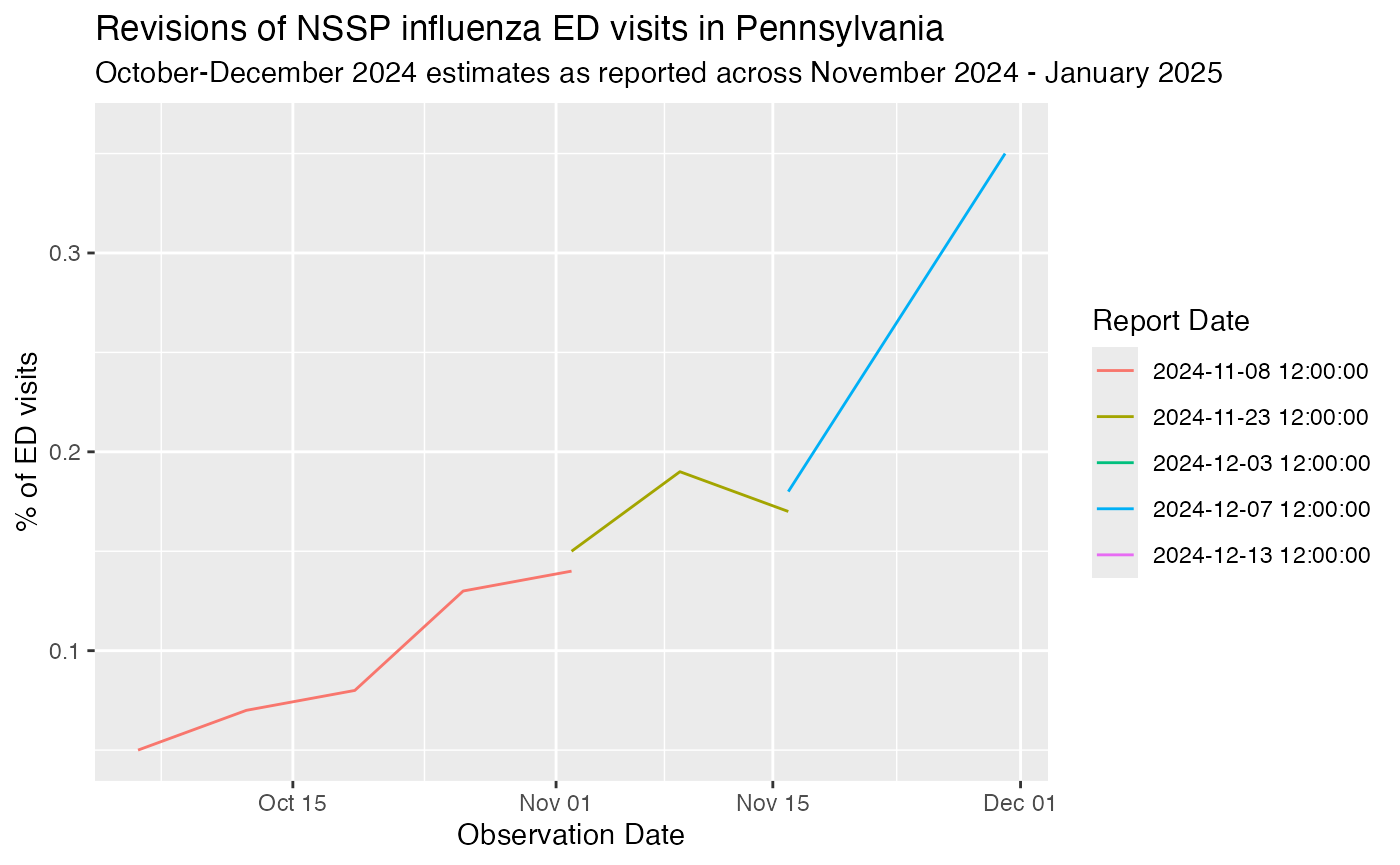
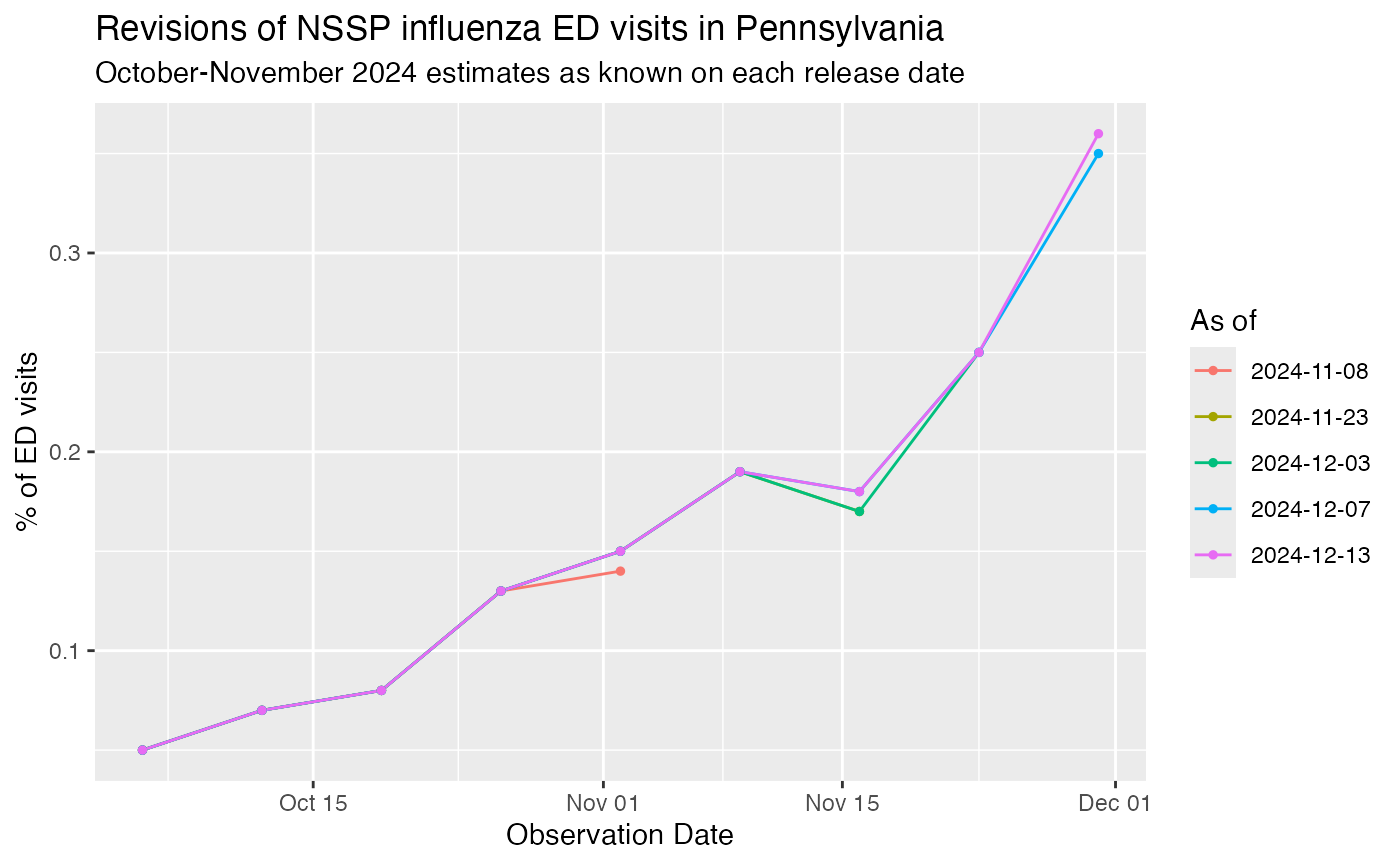
Fix vignette issues found in review
- Knit each vignette in a fresh R session (callr), so packages and options
  no longer leak between them. The migration guide's lag chunk had relied
  on dplyr attached by another vignette, and its head() output was cut to
  4 rows by the epidatr vignette's tibble options. Add library(dplyr) to
  the migration guide; add callr to Config/Needs/precompile.
- Revision-history plot: the archive lists only changed values, so each
  line was a fragment. Rebuild the series as known on each release date;
  fix the subtitle (October-November) and the alt text.
- versioned-data: describe the one revision actually shown, and use a
  7-day lag example so the filter visibly drops a row.
- migration guide: lag 6 is an example, not "the first report".

diff --git a/NEWS.md b/NEWS.md
@@ -14,8 +14,10 @@
   `as.Date()` before subtracting `reference_time` (since 1.4.0 the direct
   subtraction gave a meaningless value and lag filters returned no rows);
   metadata output is no longer truncated to 4 sources; the
-  `pub_dengue_nowcast()` example uses dates that have data; vignettes and
-  README re-rendered with 1.4.x output.
+  `pub_dengue_nowcast()` example uses dates that have data; the revision-history
+  plot now shows the full series as known on each release date (the archive
+  only lists changed values); vignettes and README re-rendered with 1.4.x
+  output, each vignette in a fresh R session.
 
 ## Patches
 
